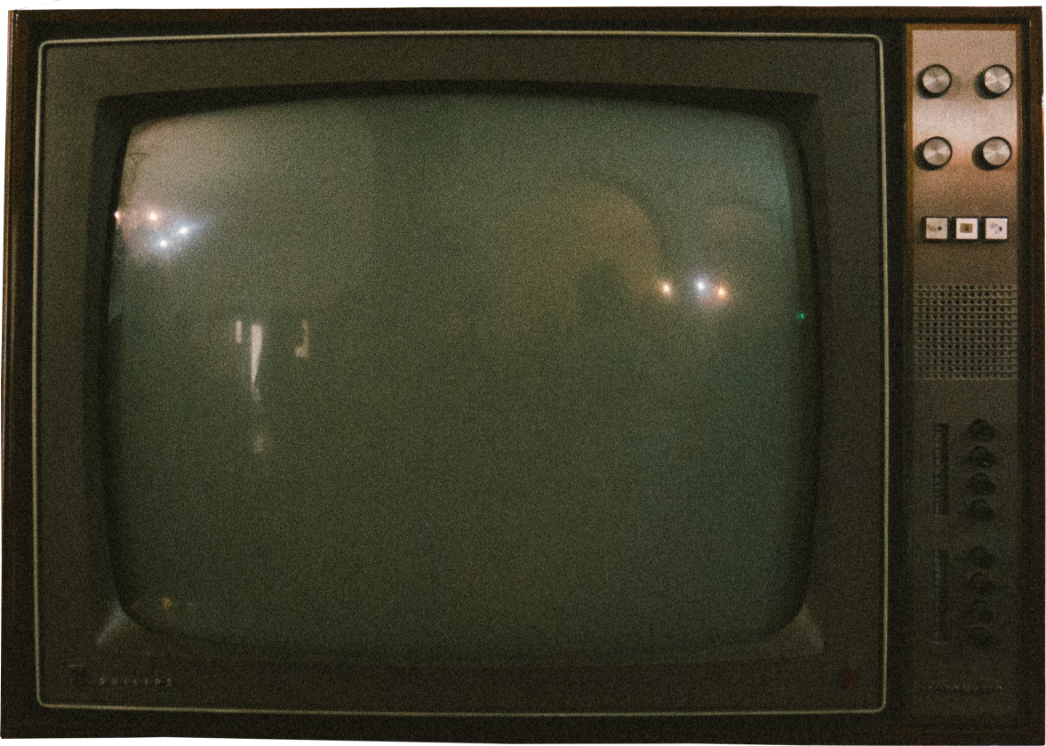
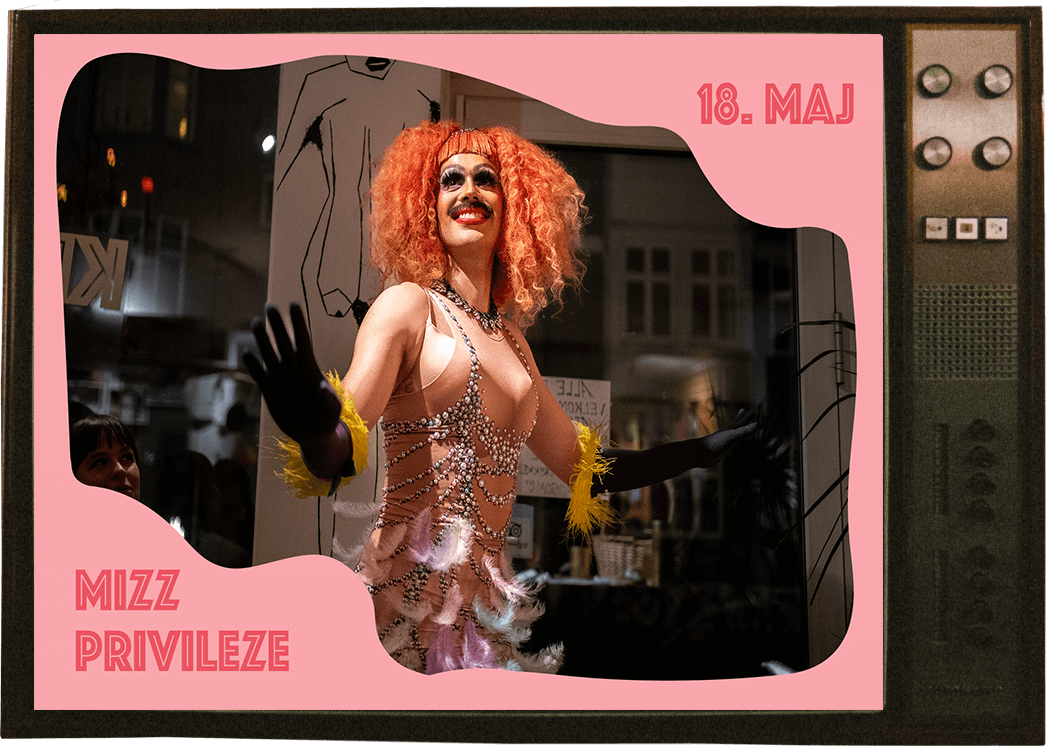
puss

diff --git a/HTML/events.html b/HTML/events.html
@@ -61,11 +61,14 @@
     </nav>
 
     <!--Code by Md Farzan: https://codepen.io/mdfarzan/pen/yLeEJZV-->
+  <div class="eventstitle">
+    <h1 class="title bigtitle">EVENTS</h1>
+
     <div class="facebookmention">
         <img src="/Pictures/logo_little.png" alt="logo" WIDTH="40PX">
         <p class="check">CHECK OUR<BR>FACEBOOK<BR>FOR MORE!</p>
     </div>
-    <h1 class="title bigtitle">EVENTS</h1>
+</div>
 
     <div class="eventcontainer">
         <!--First arrow-->
@@ -77,20 +80,15 @@
         <div class="eventitem">
             <div id="slider">
                 <div class="slide">
-                    <!--Theese are the Pictures for the gallery-->
-                    <img class="eventpics" src="/Pictures/wine-event.png" alt="tv" width="600">
+                    <img class="eventpics" src="/Pictures/TV.png" alt="tv" width="600">
                 </div>
 
                 <div class="slide">
-                    <img class="eventpics" src="/Pictures/PRIVI.png" alt="tv" width="600">
+                    <img class="eventpics" src="/Pictures/B 2.png" alt="tv" width="600">
                 </div>
 
                 <div class="slide">
-                    <img class="eventpics" src="/Pictures/B.png" alt="tv" width="600">
-                </div>
-
-                <div class="slide">
-                    <img class="eventpics" src="/Pictures/PRIVI.png" alt="tv" width="600">
+                    <img class="eventpics" src="/Pictures/PRIDE1.png" alt="tv" width="600">
                 </div>
             </div>
         </div>
